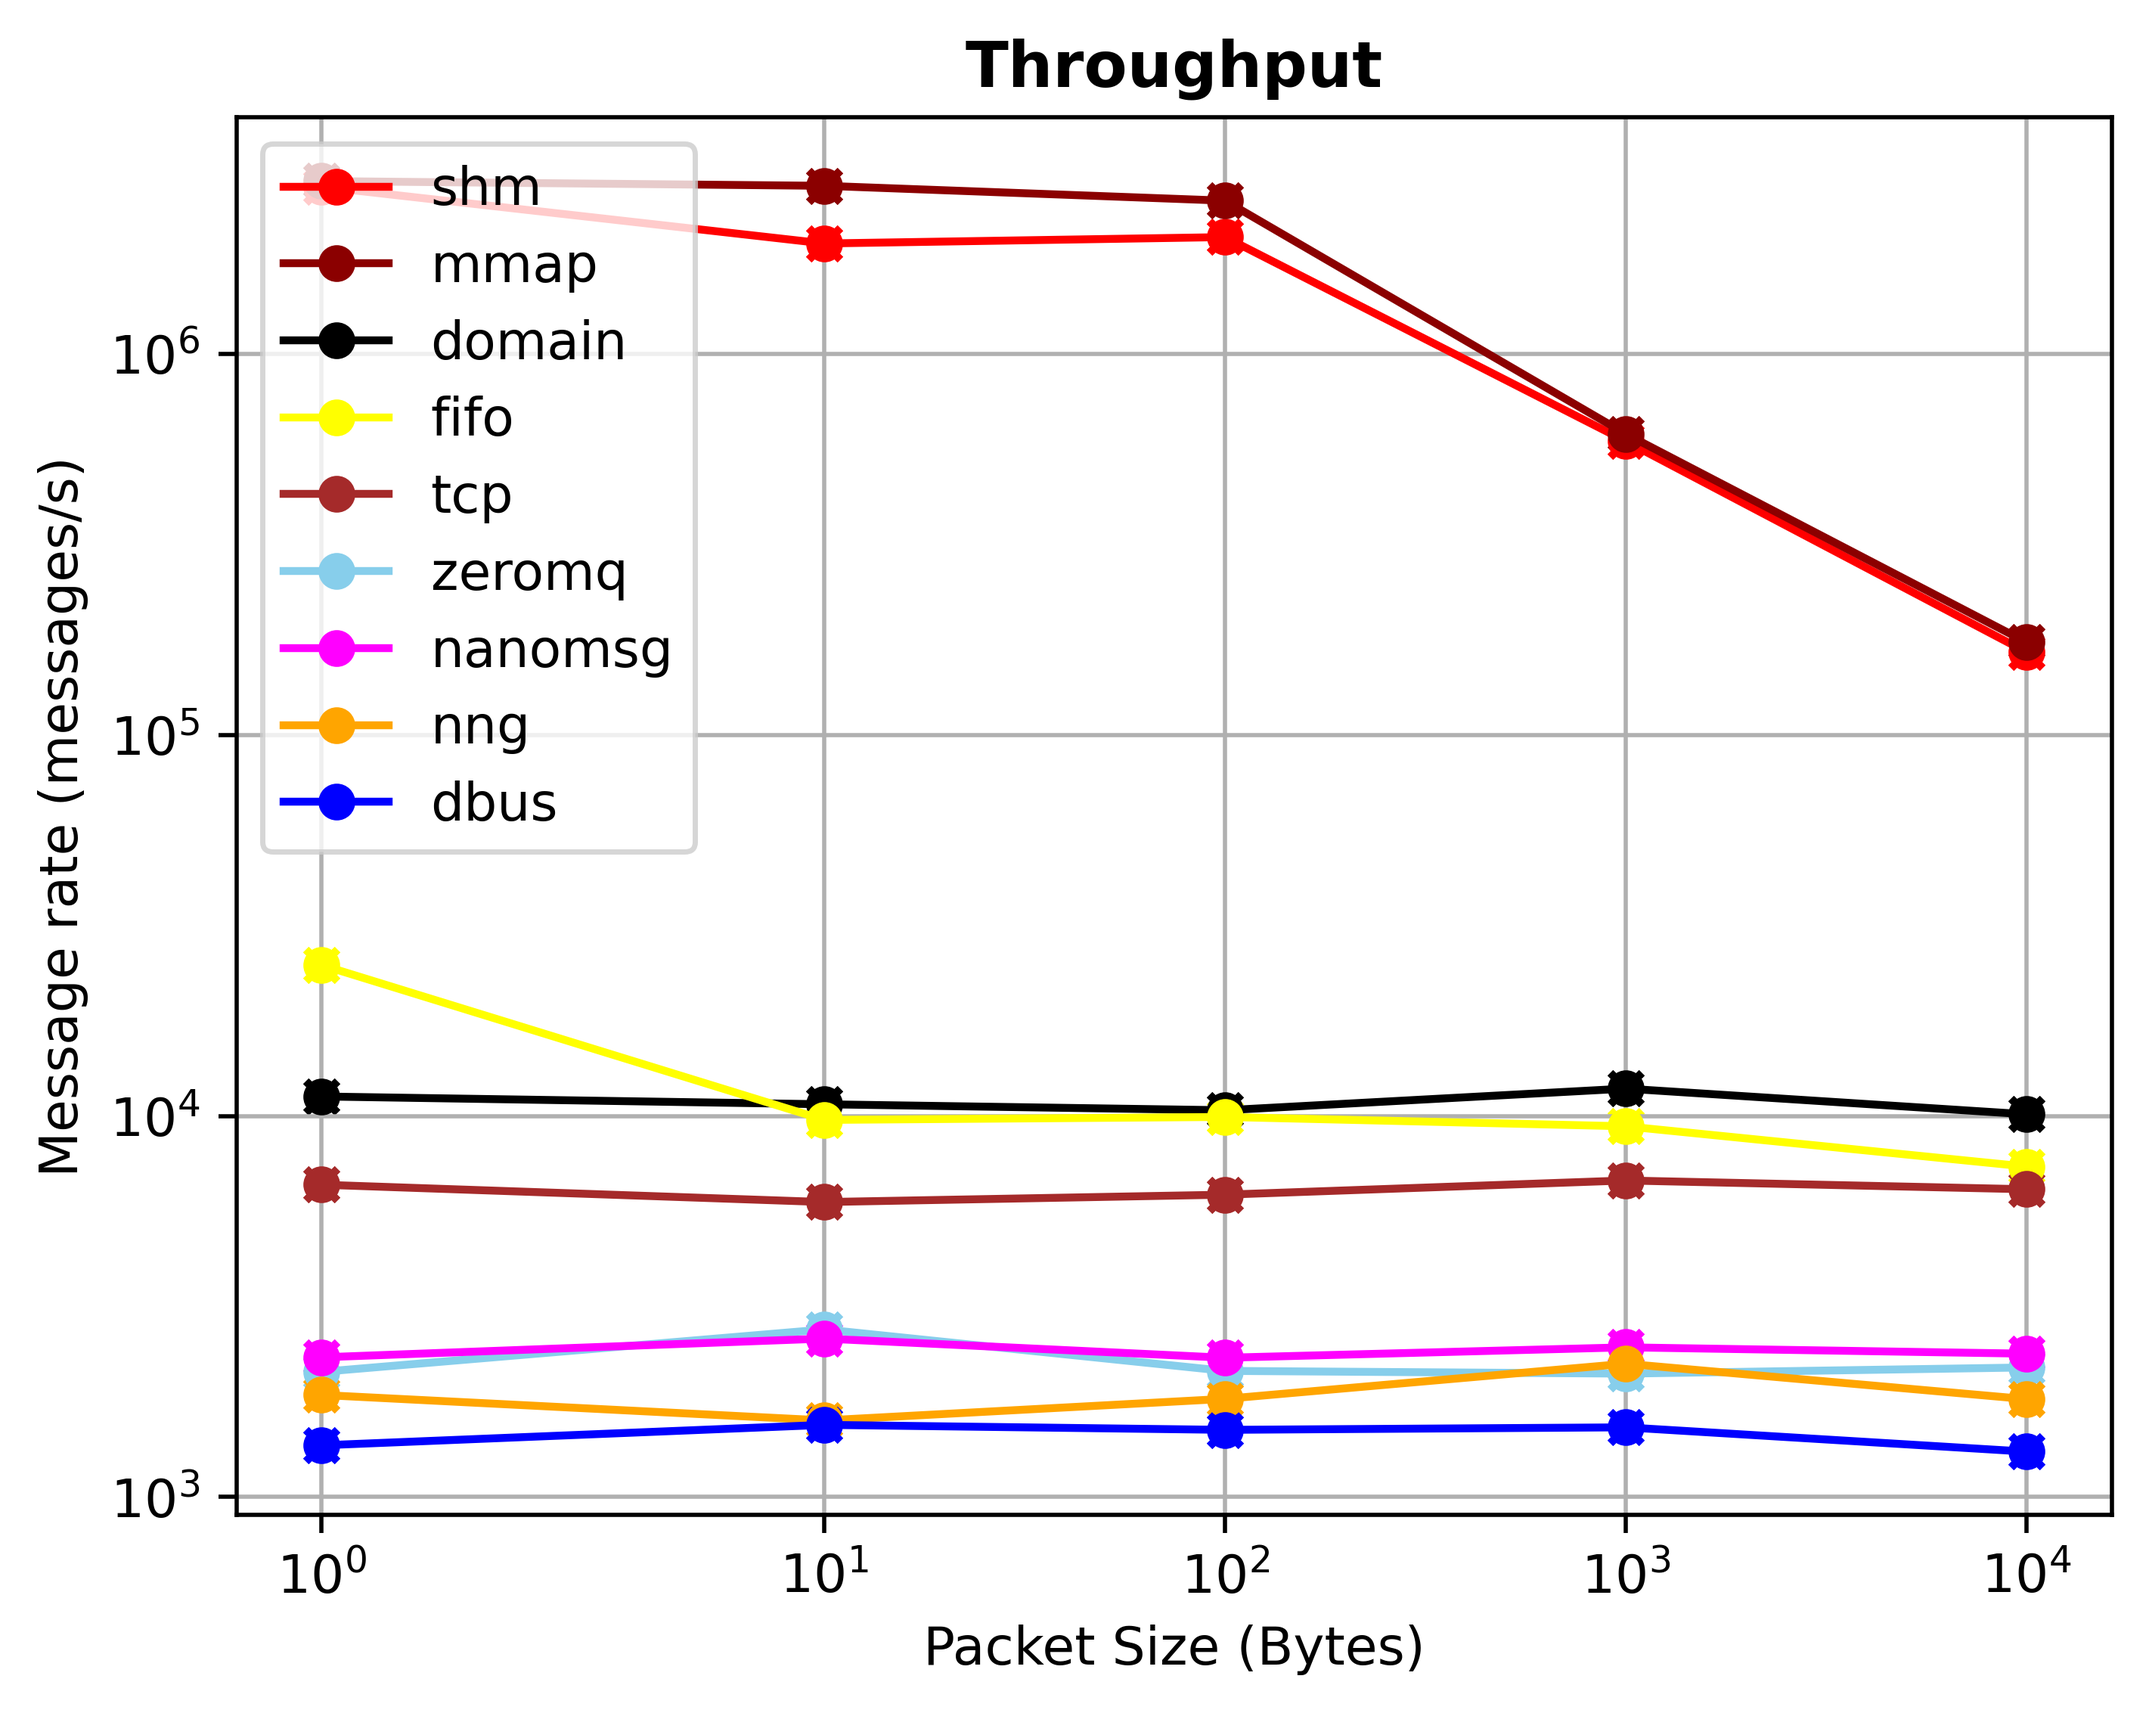
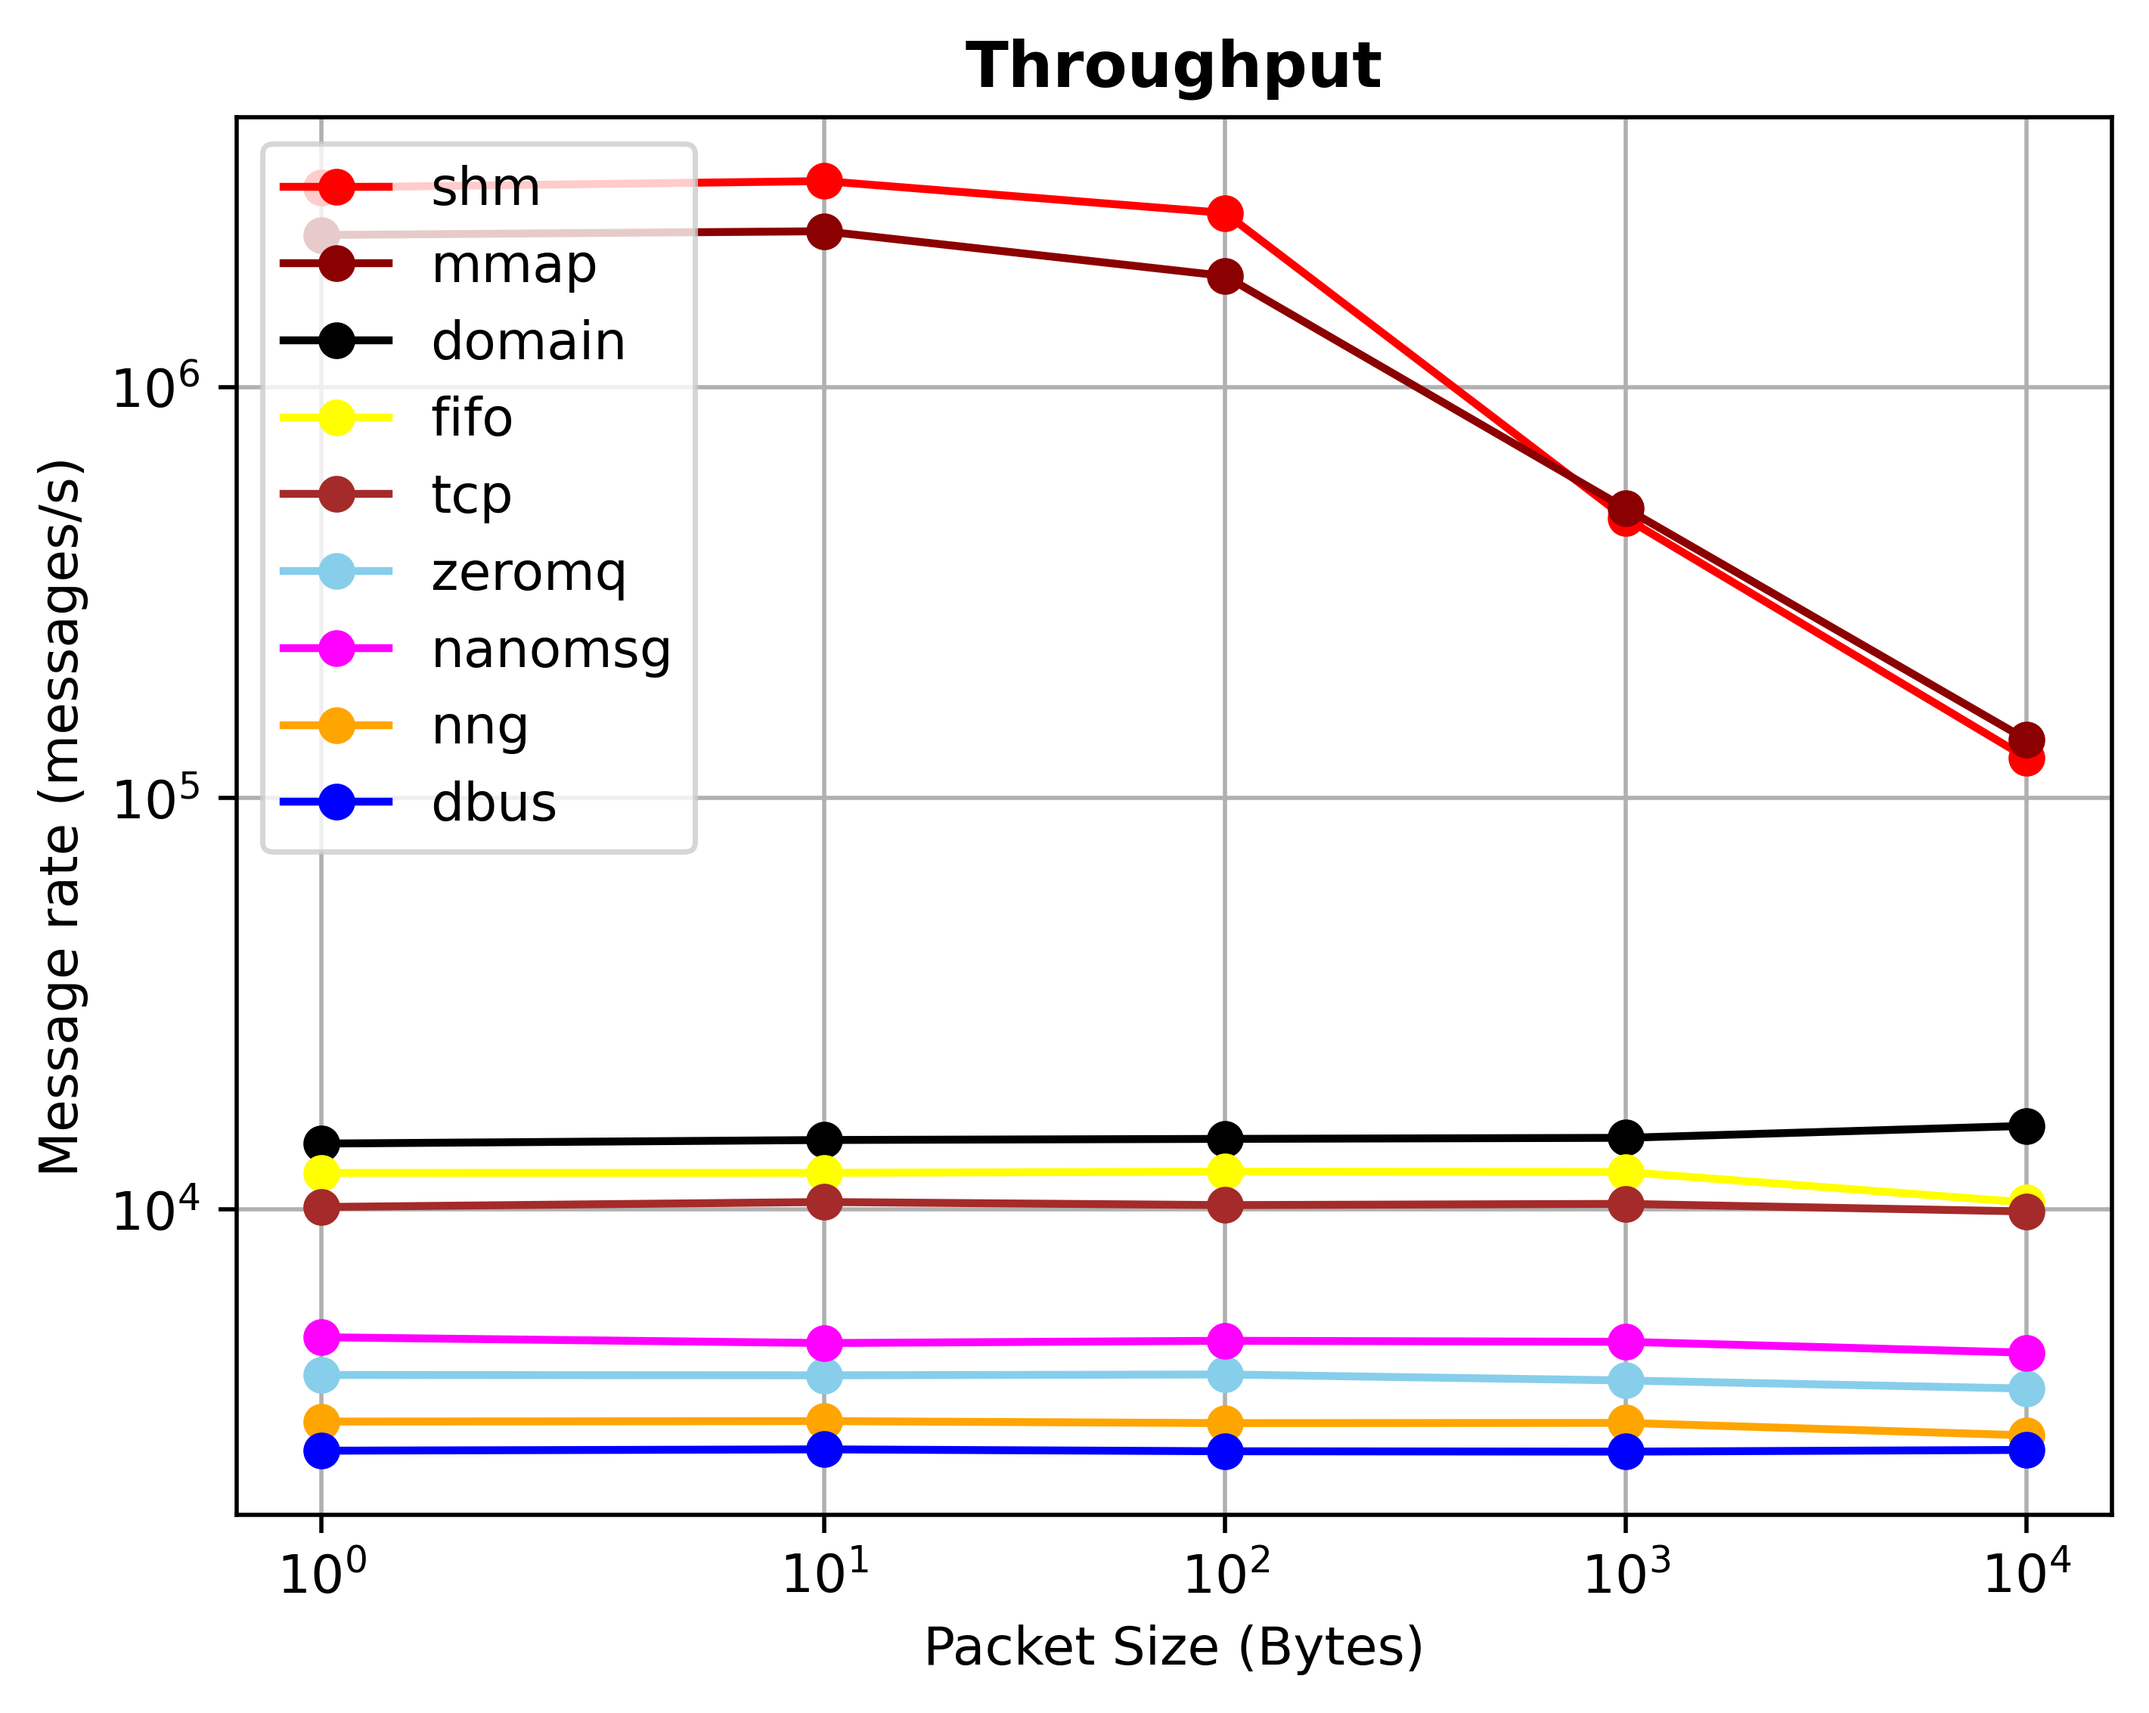
New measurements added

diff --git a/plotBenchmark.py b/plotBenchmark.py
@@ -33,7 +33,7 @@ for root, dirs, files in os.walk(logDirPath):
 
 print(results)
 
-iterationNumber = 1
+iterationNumber = 100
 
 def extractStatistics(iterationNumber, rateResults):
     end = int(len(rateResults)/iterationNumber)
@@ -59,32 +59,36 @@ shmYAvg, shmYMin, shmYMax = extractStatistics(iterationNumber, results["shm"]["r
 shmX = np.asarray(results["shm"]["size"], dtype=np.int64)
 shmX = np.unique(shmX)
 plt.plot(shmX, shmYAvg, linestyle='-', marker='o', color="red", label="shm")
-plt.scatter(shmX, shmYMin, marker='x', color="red")
-plt.scatter(shmX, shmYMax, marker='x', color="red")
+#plt.plot(shmX, shmYMax, linestyle='-', marker='o', color="red", label="shm")
+#plt.scatter(shmX, shmYMin, marker='x', color="red")
+#plt.scatter(shmX, shmYMax, marker='x', color="red")
 
 # mmap
 mmapYAvg, mmapYMin, mmapYMax = extractStatistics(iterationNumber, results["mmap"]["rate"])
 mmapX = np.asarray(results["mmap"]["size"], dtype=np.int64)
 mmapX = np.unique(mmapX)
 plt.plot(mmapX, mmapYAvg, linestyle='-', marker='o', color="darkred", label="mmap")
-plt.scatter(mmapX, mmapYMin, marker='x', color="darkred")
-plt.scatter(mmapX, mmapYMax, marker='x', color="darkred")
+#plt.plot(mmapX, mmapYMax, linestyle='-', marker='o', color="darkred", label="mmap")
+#plt.scatter(mmapX, mmapYMin, marker='x', color="darkred")
+#plt.scatter(mmapX, mmapYMax, marker='x', color="darkred")
 
 # domain
 domainYAvg, domainYMin, domainYMax = extractStatistics(iterationNumber, results["domain"]["rate"])
 domainX = np.asarray(results["domain"]["size"], dtype=np.int64)
 domainX = np.unique(domainX)
 plt.plot(domainX, domainYAvg, linestyle='-', marker='o', color="black", label="domain")
-plt.scatter(domainX, domainYMin, marker='x', color="black")
-plt.scatter(domainX, domainYMax, marker='x', color="black")
+#plt.plot(domainX, domainYMax, linestyle='-', marker='o', color="black", label="domain")
+#plt.scatter(domainX, domainYMin, marker='x', color="black")
+#plt.scatter(domainX, domainYMax, marker='x', color="black")
 
 # fifo
 fifoYAvg, fifoYMin, fifoYMax = extractStatistics(iterationNumber, results["fifo"]["rate"])
 fifoX = np.asarray(results["fifo"]["size"], dtype=np.int64)
 fifoX = np.unique(fifoX)
 plt.plot(fifoX, fifoYAvg, linestyle='-', marker='o', color="yellow", label="fifo")
-plt.scatter(fifoX, fifoYMin, marker='x', color="yellow")
-plt.scatter(fifoX, fifoYMax, marker='x', color="yellow")
+#plt.plot(fifoX, fifoYMax, linestyle='-', marker='o', color="yellow", label="fifo")
+#plt.scatter(fifoX, fifoYMin, marker='x', color="yellow")
+#plt.scatter(fifoX, fifoYMax, marker='x', color="yellow")
 
 # mq (message size currently limited to 2kB)
 # TODO: Investigate whether is possible to remove this limit
@@ -100,40 +104,45 @@ tcpYAvg, tcpYMin, tcpYMax = extractStatistics(iterationNumber, results["tcp"]["r
 tcpX = np.asarray(results["tcp"]["size"], dtype=np.int64)
 tcpX = np.unique(tcpX)
 plt.plot(tcpX, tcpYAvg, linestyle='-', marker='o', color="brown", label="tcp")
-plt.scatter(tcpX, tcpYMin, marker='x', color="brown")
-plt.scatter(tcpX, tcpYMax, marker='x', color="brown")
+#plt.plot(tcpX, tcpYMax, linestyle='-', marker='o', color="brown", label="tcp")
+#plt.scatter(tcpX, tcpYMin, marker='x', color="brown")
+#plt.scatter(tcpX, tcpYMax, marker='x', color="brown")
 
 # zeromq
 zeromqYAvg, zeromqYMin, zeromqYMax = extractStatistics(iterationNumber, results["zeromq"]["rate"])
 zeromqX = np.asarray(results["zeromq"]["size"], dtype=np.int64)
 zeromqX = np.unique(zeromqX)
 plt.plot(zeromqX, zeromqYAvg, linestyle='-', marker='o', color="skyblue", label="zeromq")
-plt.scatter(zeromqX, zeromqYMin, marker='x', color="skyblue")
-plt.scatter(zeromqX, zeromqYMax, marker='x', color="skyblue")
+#plt.plot(zeromqX, zeromqYMax, linestyle='-', marker='o', color="skyblue", label="zeromq")
+#plt.scatter(zeromqX, zeromqYMin, marker='x', color="skyblue")
+#plt.scatter(zeromqX, zeromqYMax, marker='x', color="skyblue")
 
 # nanomsg
 nanomsgYAvg, nanomsgYMin, nanomsgYMax = extractStatistics(iterationNumber, results["nanomsg"]["rate"])
 nanomsgX = np.asarray(results["nanomsg"]["size"], dtype=np.int64)
 nanomsgX = np.unique(nanomsgX)
 plt.plot(nanomsgX, nanomsgYAvg, linestyle='-', marker='o', color="magenta", label="nanomsg")
-plt.scatter(nanomsgX, nanomsgYMin, marker='x', color="magenta")
-plt.scatter(nanomsgX, nanomsgYMax, marker='x', color="magenta")
+#plt.plot(nanomsgX, nanomsgYMax, linestyle='-', marker='o', color="magenta", label="nanomsg")
+#plt.scatter(nanomsgX, nanomsgYMin, marker='x', color="magenta")
+#plt.scatter(nanomsgX, nanomsgYMax, marker='x', color="magenta")
 
 # nng
 nngYAvg, nngYMin, nngYMax = extractStatistics(iterationNumber, results["nng"]["rate"])
 nngX = np.asarray(results["nng"]["size"], dtype=np.int64)
 nngX = np.unique(nngX)
 plt.plot(nngX, nngYAvg, linestyle='-', marker='o', color="orange", label="nng")
-plt.scatter(nngX, nngYMin, marker='x', color="orange")
-plt.scatter(nngX, nngYMax, marker='x', color="orange")
+#plt.plot(nngX, nngYMax, linestyle='-', marker='o', color="orange", label="nng")
+#plt.scatter(nngX, nngYMin, marker='x', color="orange")
+#plt.scatter(nngX, nngYMax, marker='x', color="orange")
 
 # dbus
 dbusYAvg, dbusYMin, dbusYMax = extractStatistics(iterationNumber, results["dbus"]["rate"])
 dbusX = np.asarray(results["dbus"]["size"], dtype=np.int64)
 dbusX = np.unique(dbusX)
 plt.plot(dbusX, dbusYAvg, linestyle='-', marker='o', color="blue", label="dbus")
-plt.scatter(dbusX, dbusYMin, marker='x', color="blue")
-plt.scatter(dbusX, dbusYMax, marker='x', color="blue")
+#plt.plot(dbusX, dbusYMax, linestyle='-', marker='o', color="blue", label="dbus")
+#plt.scatter(dbusX, dbusYMin, marker='x', color="blue")
+#plt.scatter(dbusX, dbusYMax, marker='x', color="blue")
 
 # plot configuration
 plt.title("Throughput", fontweight='bold')

diff --git a/benchmark.py b/benchmark.py
@@ -9,7 +9,7 @@ technologies = ("shm", "mmap", "domain", "fifo", "tcp", "zeromq", "nanomsg", "nn
 # Messages to send in one iteration
 count = 1000
 # Number of iterations
-iterationsPerScenario = 1
+iterationsPerScenario = 100 
 # Message sizes for sending
 packetSizes = (1, 10, 100, 1000, 10000)
 # Build folder of the benchmark executables

diff --git a/README.md b/README.md
@@ -24,7 +24,7 @@ cmake --build cmake-build-debug --parallel 8
 ```
 
 This will generate a `cmake-build-debug/source` folder, holding further directories for each IPC type.
-Simply execute the program named after the folder, e.g. `build/source/shm/shm`.
+Simply execute the program named after the folder, e.g. `cmake-build-debug/source/shm/shm`.
 Where applicable, this will start a new server and client process, run benchmarks and print results to `stdout`. For example, running `cmake-build-debug/source/shm/shm` outputs:
 
 ```
